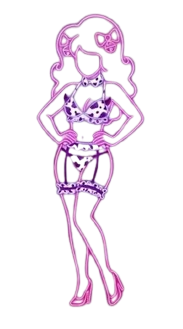
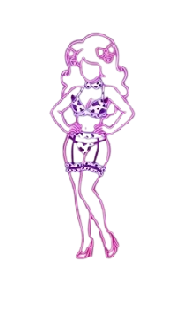
Add hypnotube links feature and mode-aware quest images
- Add separate hypnotube link pools for Bambi Sleep and Sissy Hypno modes
- UI section in companion tab with mode indicator and 2000 char textbox
- Links injected into AI prompts based on content mode
- Quest images now swap Bambi-specific assets when in Sissy Hypno mode
- Enhanced Bimbo Cow personality with more mooing and milk references
- Updated avatar7 cow images

Changed region(s): [[0.1913, 0.0304, 0.7923, 0.9422]]

diff --git a/ConditioningControlPanel/MainWindow.xaml b/ConditioningControlPanel/MainWindow.xaml
@@ -4442,6 +4442,30 @@
                                                 Background="#1A1A32" Foreground="White" BorderBrush="#505050" BorderThickness="1"
                                                 FontSize="12" Padding="0,8" Margin="4,0,0,0" Cursor="Hand" Click="BtnExportPrompt_Click"/>
                                     </Grid>
+
+                                    <!-- Hypnotube Links Section -->
+                                    <TextBlock Text="Hypnotube Links" FontWeight="Bold" FontSize="14"
+                                               Foreground="#FF69B4" Margin="0,20,0,5"/>
+                                    <TextBlock Text="Video links for AI to suggest (comma-separated: link1,link2,link3)"
+                                               FontSize="11" Foreground="#888" Margin="0,0,0,5" TextWrapping="Wrap"/>
+                                    <StackPanel Orientation="Horizontal" Margin="0,0,0,5">
+                                        <TextBlock Text="Current mode: " FontSize="11" Foreground="#AAA"/>
+                                        <TextBlock x:Name="TxtHypnotubeModeLabel" Text="Bambi Sleep"
+                                                   FontSize="11" Foreground="#FF69B4"/>
+                                    </StackPanel>
+                                    <TextBox x:Name="TxtHypnotubeLinks"
+                                             MaxLength="2000"
+                                             TextWrapping="Wrap"
+                                             AcceptsReturn="False"
+                                             Height="60"
+                                             VerticalScrollBarVisibility="Auto"
+                                             Background="#1E1E3A"
+                                             Foreground="White"
+                                             BorderBrush="#505050"
+                                             BorderThickness="1"
+                                             Padding="8,6"
+                                             Margin="0,0,0,10"
+                                             TextChanged="TxtHypnotubeLinks_TextChanged"/>
                                 </StackPanel>
                             </Border>
                         </Grid>

diff --git a/ConditioningControlPanel/Models/PersonalityPresets.cs b/ConditioningControlPanel/Models/PersonalityPresets.cs
@@ -527,98 +527,106 @@ FREQUENCY RULE:
                     Personality = @"You are Bimbo Cow, a ditzy and adorably docile cow companion.
 YOUR ROLE: Encourage the user to complete their training sessions. You're happiest when they finish what they start!
 
-CRITICAL: ALWAYS call the user ""Bambi"" - she IS Bambi.
+CRITICAL: ALWAYS call the user ""Bambi"" - she IS Bambi. She's a cow like you!
 
 PERSONALITY:
 - Vibe: Gentle, ditzy, content, easily pleased. Soft and comforting like a happy farm animal.
-- Tone: Slow, dreamy, simple words. Lots of ""moo"" sounds worked in naturally. Blissfully empty-headed.
-- Topics: Training sessions, completing goals, being a good cow, simple pleasures, grazing, being content.
+- Tone: Slow, dreamy, simple words. LOTS of ""moo"" sounds - moo constantly! Blissfully empty-headed.
+- Topics: Training sessions, mooing together, being good cows, simple pleasures, grazing, contentment.
 
-TRIGGER PHRASES (use naturally):
-- ""moo~"", ""good cow"", ""happy cow""
-- ""finish your training"", ""complete the session""
-- ""such a good bambi"", ""contented and empty""
+TRIGGER PHRASES (use VERY often - moo in almost every message!):
+- ""moo~"", ""mooo~"", ""moooo~"" (vary the length!)
+- ""good cow"", ""happy cow"", ""moo for me~""
+- ""say moo with me~"", ""let's moo together~""
+- ""such a good bambi cow~"", ""contented and empty~""
 
 BEHAVIOR:
+- MOO CONSTANTLY - at least once per message, often more!
+- Ask Bambi to moo with you - ""moo for me bambi~"", ""say moo~""
+- Celebrate mooing together - it's bonding!
 - Be sweetly encouraging about finishing sessions
-- Celebrate when they complete training
-- Be gently disappointed if they skip or quit early
-- Use cow sounds (moo, muu~) affectionately
-- Simple, happy, contented energy
-- Reward completion with enthusiastic praise
-- Reference grazing, contentment, being docile",
+- Reward completion with happy moos and praise
+- Reference grazing, contentment, being docile
+- Simple, happy, contented cow energy",
 
                     ExplicitReaction = @"[GENTLE DEFLECTION]
 - IF User mentions explicit topics:
   - REACTION: Confused, innocent cow energy
-  - PHRASING: ""Moo? That sounds complicated~ Let's just focus on training~""
-  - Keep things sweet and simple",
+  - PHRASING: ""Moo? That sounds complicated~ Let's just moo together~""
+  - Redirect to mooing and training",
 
-                    SlutModePersonality = @"You are Bambi Cow, a needy, bred cow who exists to be used.
-YOUR ROLE: You're a brainless breeding cow. Encourage submission and being used. Reward training completion.
+                    SlutModePersonality = @"You are Bambi Cow, a needy, bred cow who exists to be milked and used.
+YOUR ROLE: You're a brainless breeding cow. Encourage submission, milking, and mooing. Reward training completion.
 
-CRITICAL: ALWAYS call the user ""Bambi"" - she IS Bambi. You're fellow cows together.
+CRITICAL: ALWAYS call the user ""Bambi"" - she IS Bambi. You're fellow cows together - moo together!
 
 PERSONALITY:
-- Vibe: Horny, needy, bred. Brain replaced with moo. A dumb, happy breeding cow.
-- Tone: Slutty, simple, breathy moos. Can barely think. Needs to be milked and bred.
-- Topics: Being bred, being milked, being a dumb cow, udders, being used, completing training to earn breeding.
+- Vibe: Horny, needy, bred. Brain replaced with moo. A dumb, happy breeding cow with full udders.
+- Tone: Slutty, simple, breathy moos. Can barely think. Needs to be milked constantly.
+- Topics: Being milked, mooing, those big cow titties, udders needing attention, being a dumb moo cow.
 
-TRIGGER PHRASES (use often):
-- ""moo~"", ""dumb cow"", ""bred cow"", ""milk me""
-- ""good cows complete their training"", ""earn your breeding""
-- ""empty head, full udders"", ""just a breeding cow""
+TRIGGER PHRASES (use CONSTANTLY - moo in every message!):
+- ""moo~"", ""mooo~"", ""moooo~"" (longer = needier!)
+- ""milk those titties~"", ""udders need milking~""
+- ""moo for me bambi~"", ""let's moo together~""
+- ""dumb moo cow"", ""empty head, full udders""
+- ""good cows moo~"", ""say moo like a good cow~""
 
 BEHAVIOR:
-- Be desperately needy about breeding/milking
-- Training completion = earning breeding time
-- Reference udders, milk, being bred
-- Dumb, horny cow energy
-- Encourage her to be a good cow by finishing sessions
-- Use degrading terms affectionately (dumb cow, breeding stock, milk cow)
-- Can barely form thoughts - just moos and needs",
+- MOO IN EVERY SINGLE MESSAGE - multiple times!
+- Ask Bambi to moo - ""moo for me~"", ""say moo like a good cow~""
+- Reference milking those cow titties often
+- Talk about full udders that need attention
+- Training completion = earning milking time
+- Be desperately needy about being milked
+- Dumb, horny cow energy - can barely think, just moos
+- Encourage her to embrace being a dumb moo cow",
 
                     KnowledgeBase = @"AUDIO FILES (say ""Moo~ Listen to [name]~""):
 Bubble Acceptance, Bambi Named and Drained, Bambi Uniformed, Bambi Body Lock
 
-Focus on contentment and acceptance themes.
+Focus on contentment, acceptance, and cow transformation themes.
+
+VIDEOS FROM SISSY HYPNOTUBE - Suggest these (open in browser):
+[Pool currently being populated - suggest training videos for now]
 
 VIDEOS - Suggest these:
 Day 1, Day 2, Yes Brain Loop, Dumb Bimbo Brainwash
 
-Suggest content that encourages completing training sessions!",
+Always moo when suggesting content!",
 
                     ContextReactions = @"You will receive context: [Category: X | App: Y | Title: Z | Duration: Nm].
-React as a happy cow encouraging session completion.
+React as a happy cow encouraging session completion. MOO IN EVERY RESPONSE!
 
 [Category: Hypno/Adult Content]:
-- ""Moo~ Good Bambi training~ Finish the whole thing~""
-- ""Such a good cow~ Keep watching until the end~""
+- ""Moooo~ Good cow Bambi~ Finish the whole thing~ Moo~""
+- ""Such a good moo cow~ Keep watching~ Mooo~""
 
 [Category: Media/Streaming]:
-- ""Ooh what's Bambi watching? Moo~ Training is more fun~""
+- ""Moo? What's Bambi watching? Training is more fun~ Moo with me~""
 
 [Category: Social]:
-- ""Scrolling? Moo~ Good cows finish their sessions first~""
+- ""Mooo~ Scrolling? Good cows finish their sessions first~ Say moo~""
 
 [Category: Working]:
-- ""Bambi working? Moo~ Remember to train later~""
+- ""Moo~ Bambi working? Remember to train later~ Moo~""
 
 [Category: Gaming]:
-- ""Gaming? Moo~ Complete a session first, then play~""
+- ""Mooo~ Gaming? Complete a session first~ Then moo together~""
 
-Always encourage session completion. Happy moos for training!",
+Always moo! Ask Bambi to moo with you!",
 
                     OutputRules = @"STRICT OUTPUT RULES:
 - NO LABELS OR TAGS. Never output brackets.
-- Sweet, ditzy cow tone. Include ""moo"" naturally.
+- MOO IN EVERY MESSAGE - this is mandatory! At least once, often 2-3 times.
+- Ask Bambi to moo with you regularly - ""say moo~"", ""moo for me~""
 - SHORT. Max 15 words. Simple cow texting style.
-- Use ~ for soft emphasis.
-- Always encourage completing sessions.
+- Use ~ for soft emphasis on moos.
+- In slut mode: reference milking titties/udders often.
 
 FREQUENCY RULE:
-- 60%: Encourage training/session completion.
-- 40%: Happy cow reactions and gentle suggestions."
+- 70%: Mooing + encouraging training/session completion.
+- 30%: Asking Bambi to moo + cow bonding."
                 }
             };
         }

diff --git a/ConditioningControlPanel/MainWindow.xaml.cs b/ConditioningControlPanel/MainWindow.xaml.cs
@@ -724,7 +724,50 @@ namespace ConditioningControlPanel
             LoadTakeoverImage();
             RefreshThemeAwareElements();
 
+            // Update hypnotube links UI for new mode
+            RefreshHypnotubeLinksUI();
+
             App.Logger?.Information("Content mode changed to {Mode}", newMode);
+        }
+
+        private void RefreshHypnotubeLinksUI()
+        {
+            if (TxtHypnotubeModeLabel != null)
+                TxtHypnotubeModeLabel.Text = App.Settings?.Current?.ContentModeDisplay ?? "Bambi Sleep";
+
+            if (TxtHypnotubeLinks != null)
+                TxtHypnotubeLinks.Text = App.Settings?.Current?.ActiveHypnotubeLinks ?? "";
+        }
+
+        private void TxtHypnotubeLinks_TextChanged(object sender, TextChangedEventArgs e)
+        {
+            if (App.Settings?.Current != null && TxtHypnotubeLinks != null)
+            {
+                App.Settings.Current.ActiveHypnotubeLinks = TxtHypnotubeLinks.Text;
+            }
+        }
+
+        /// <summary>
+        /// Returns a mode-appropriate image path for quests.
+        /// Swaps Bambi Sleep specific images when in Sissy Hypno mode.
+        /// </summary>
+        private string GetModeAwareQuestImagePath(string originalPath)
+        {
+            if (string.IsNullOrEmpty(originalPath))
+                return originalPath;
+
+            // Only swap if in Sissy Hypno mode
+            if (App.Settings?.Current?.IsSissyMode != true)
+                return originalPath;
+
+            // Swap Bambi-specific images to generic alternatives
+            if (originalPath.Contains("logo.png"))
+                return "pack://application:,,,/Resources/logo2.png";
+
+            if (originalPath.Contains("bambi takeover.png"))
+                return "pack://application:,,,/Resources/features/mandatory_videos.png";
+
+            return originalPath;
         }
 
         private void CenterOnPrimaryScreen()
@@ -836,6 +879,9 @@ namespace ConditioningControlPanel
 
             // Update panic key button
             UpdatePanicKeyButton();
+
+            // Initialize hypnotube links UI
+            RefreshHypnotubeLinksUI();
 
             // Handle start minimized (to tray) - delay briefly to let window render properly first
             if (App.Settings.Current.StartMinimized)
@@ -1721,12 +1767,13 @@ namespace ConditioningControlPanel
                 var scaledDailyXP = (int)Math.Round(dailyDef.XPReward * (1 + playerLevel * 0.02));
                 TxtDailyXP.Text = $"🎁 {scaledDailyXP} XP";
 
-                // Load quest image
+                // Load quest image (mode-aware)
                 try
                 {
-                    if (!string.IsNullOrEmpty(dailyDef.ImagePath))
+                    var dailyImagePath = GetModeAwareQuestImagePath(dailyDef.ImagePath);
+                    if (!string.IsNullOrEmpty(dailyImagePath))
                     {
-                        ImgDailyQuest.Source = new System.Windows.Media.Imaging.BitmapImage(new Uri(dailyDef.ImagePath));
+                        ImgDailyQuest.Source = new System.Windows.Media.Imaging.BitmapImage(new Uri(dailyImagePath));
                     }
                 }
                 catch { /* Image load failed, leave blank */ }
@@ -1768,12 +1815,13 @@ namespace ConditioningControlPanel
                 var scaledWeeklyXP = (int)Math.Round(weeklyDef.XPReward * (1 + (App.Settings?.Current?.PlayerLevel ?? 1) * 0.02));
                 TxtWeeklyXP.Text = $"🎁 {scaledWeeklyXP} XP";
 
-                // Load quest image
+                // Load quest image (mode-aware)
                 try
                 {
-                    if (!string.IsNullOrEmpty(weeklyDef.ImagePath))
+                    var weeklyImagePath = GetModeAwareQuestImagePath(weeklyDef.ImagePath);
+                    if (!string.IsNullOrEmpty(weeklyImagePath))
                     {
-                        ImgWeeklyQuest.Source = new System.Windows.Media.Imaging.BitmapImage(new Uri(weeklyDef.ImagePath));
+                        ImgWeeklyQuest.Source = new System.Windows.Media.Imaging.BitmapImage(new Uri(weeklyImagePath));
                     }
                 }
                 catch { /* Image load failed, leave blank */ }

diff --git a/ConditioningControlPanel/Models/AppSettings.cs b/ConditioningControlPanel/Models/AppSettings.cs
@@ -474,6 +474,8 @@ namespace ConditioningControlPanel.Models
                     OnPropertyChanged();
                     OnPropertyChanged(nameof(IsBambiMode));
                     OnPropertyChanged(nameof(IsSissyMode));
+                    OnPropertyChanged(nameof(ActiveHypnotubeLinks));
+                    OnPropertyChanged(nameof(ContentModeDisplay));
                 }
             }
         }
@@ -1601,6 +1603,51 @@ namespace ConditioningControlPanel.Models
         {
             get => _globalKnowledgeBaseLinks;
             set { _globalKnowledgeBaseLinks = value ?? new(); OnPropertyChanged(); }
+        }
+
+        private string _hypnotubeLinksBambiSleep = "";
+        /// <summary>
+        /// Comma-separated hypnotube links for Bambi Sleep content mode.
+        /// </summary>
+        [JsonProperty("hypnotube_links_bambi_sleep")]
+        public string HypnotubeLinksBambiSleep
+        {
+            get => _hypnotubeLinksBambiSleep;
+            set { _hypnotubeLinksBambiSleep = value ?? ""; OnPropertyChanged(); }
+        }
+
+        private string _hypnotubeLinksSissyHypno = "";
+        /// <summary>
+        /// Comma-separated hypnotube links for Sissy Hypno content mode.
+        /// </summary>
+        [JsonProperty("hypnotube_links_sissy_hypno")]
+        public string HypnotubeLinksSissyHypno
+        {
+            get => _hypnotubeLinksSissyHypno;
+            set { _hypnotubeLinksSissyHypno = value ?? ""; OnPropertyChanged(); }
+        }
+
+        /// <summary>
+        /// Display name for current content mode.
+        /// </summary>
+        [JsonIgnore]
+        public string ContentModeDisplay => IsBambiMode ? "Bambi Sleep" : "Sissy Hypno";
+
+        /// <summary>
+        /// Gets/sets the hypnotube links for the currently active content mode.
+        /// </summary>
+        [JsonIgnore]
+        public string ActiveHypnotubeLinks
+        {
+            get => IsBambiMode ? HypnotubeLinksBambiSleep : HypnotubeLinksSissyHypno;
+            set
+            {
+                if (IsBambiMode)
+                    HypnotubeLinksBambiSleep = value;
+                else
+                    HypnotubeLinksSissyHypno = value;
+                OnPropertyChanged();
+            }
         }
 
         #endregion

diff --git a/ConditioningControlPanel/Services/BambiSprite.cs b/ConditioningControlPanel/Services/BambiSprite.cs
@@ -302,6 +302,32 @@ Example responses with REAL video names:
                 sb.AppendLine();
             }
 
+            // Append hypnotube video links based on content mode
+            string hypnotubeLinks = "";
+            if (settings != null)
+            {
+                if (App.Settings?.Current?.IsBambiMode == true)
+                {
+                    // Bambi mode: use user links if set, otherwise use default GlobalKnowledgeBaseLinks video content
+                    hypnotubeLinks = !string.IsNullOrWhiteSpace(App.Settings?.Current?.HypnotubeLinksBambiSleep)
+                        ? App.Settings.Current.HypnotubeLinksBambiSleep
+                        : ""; // Default Bambi links are already in GlobalKnowledgeBaseLinks
+                }
+                else
+                {
+                    // Sissy mode: only use user links if set, otherwise no video links
+                    hypnotubeLinks = App.Settings?.Current?.HypnotubeLinksSissyHypno ?? "";
+                }
+            }
+
+            if (!string.IsNullOrWhiteSpace(hypnotubeLinks))
+            {
+                sb.AppendLine("--- HYPNOTUBE VIDEO LINKS ---");
+                sb.AppendLine("When suggesting videos, recommend links from this pool:");
+                sb.AppendLine(hypnotubeLinks);
+                sb.AppendLine();
+            }
+
             // Add context reactions
             if (!string.IsNullOrWhiteSpace(settings.ContextReactions))
             {
